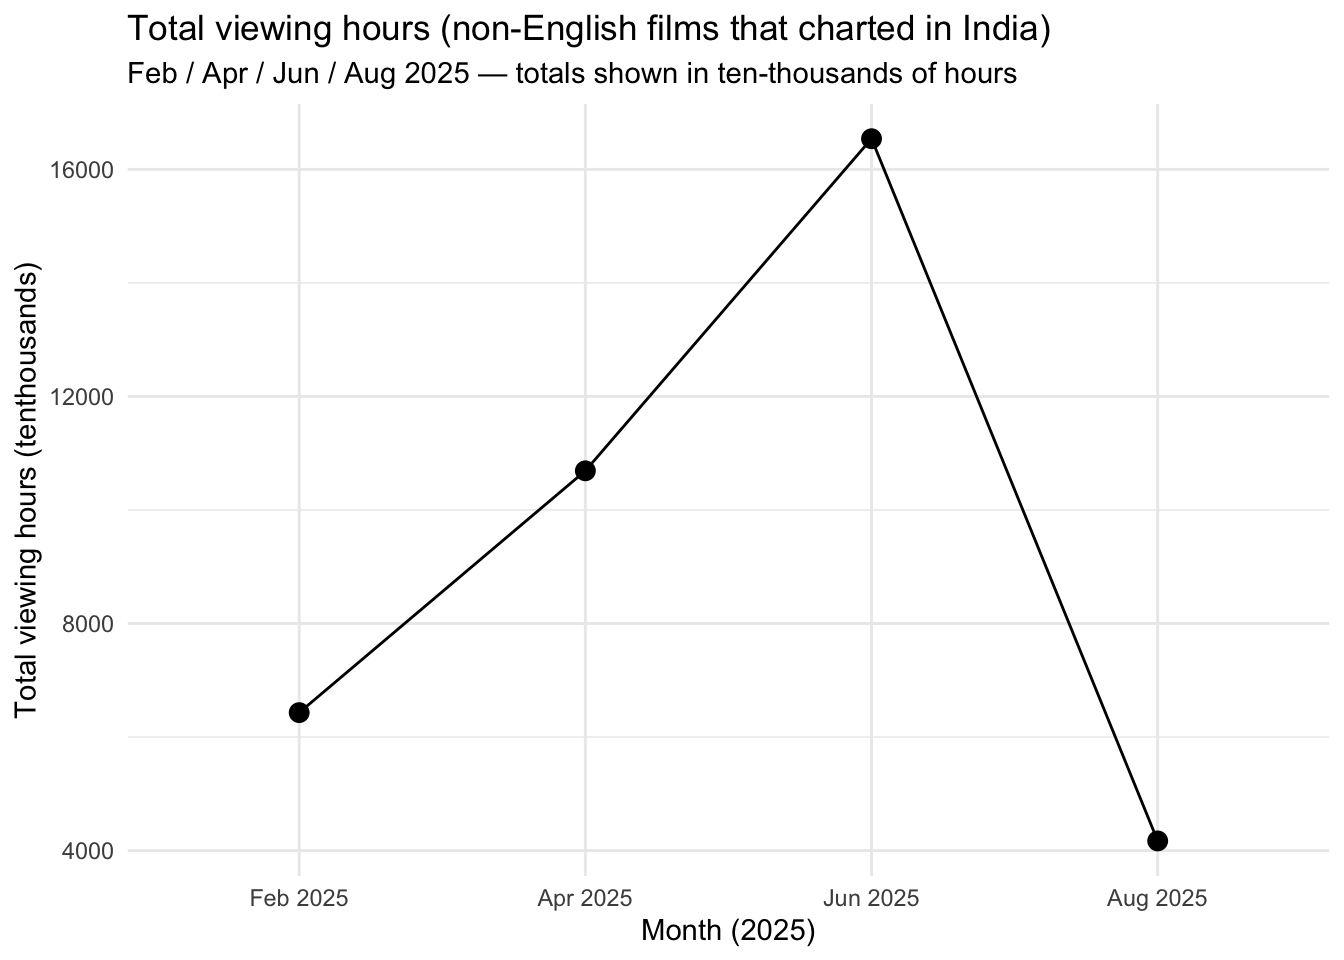
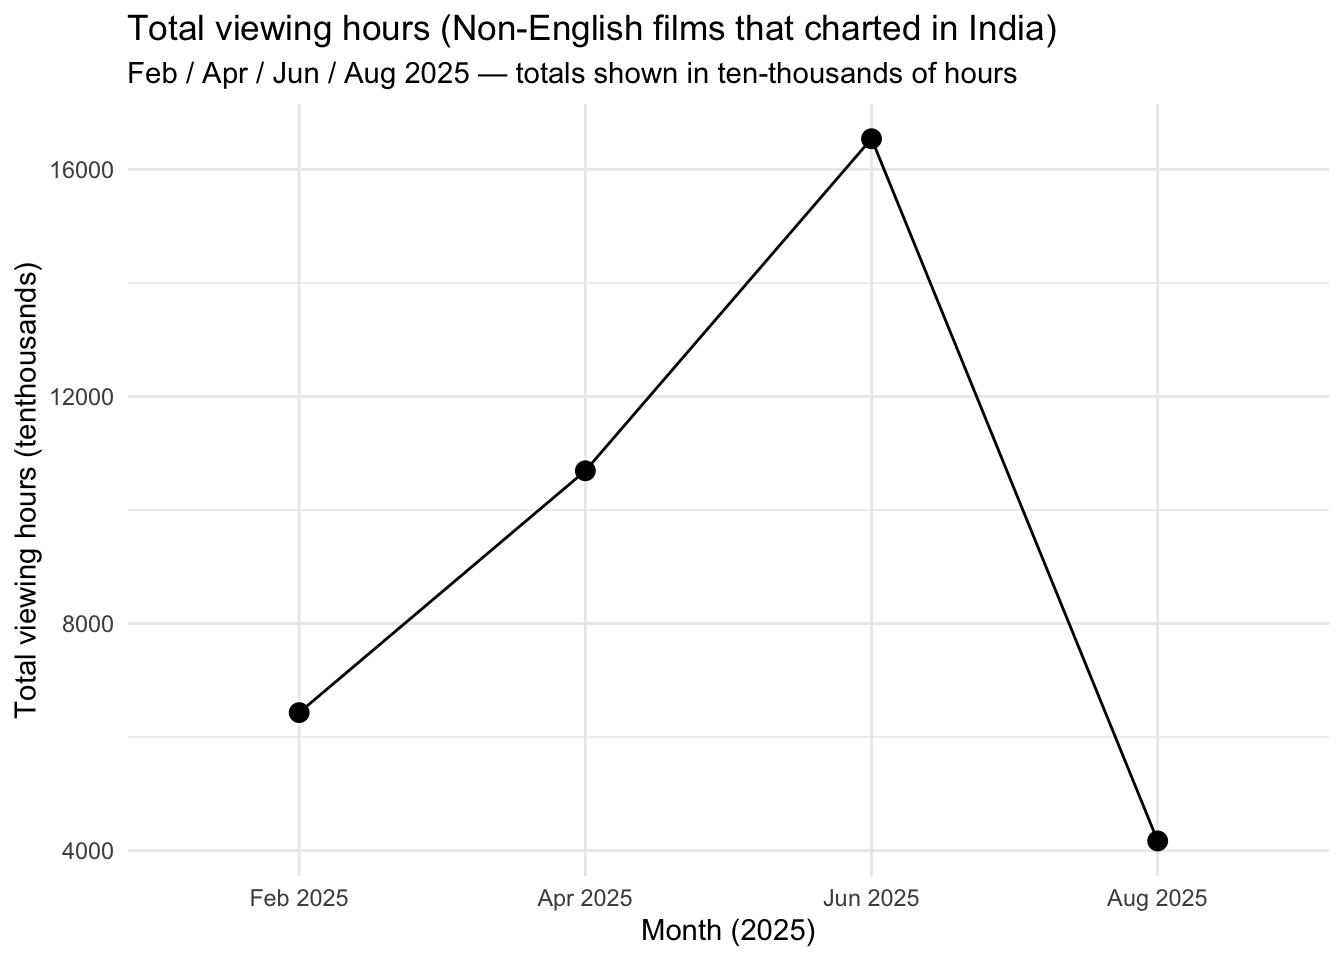
done

Changed region(s): [[0.3438, 0.0, 0.7812, 0.0625]]

diff --git a/docs/mp01.html b/docs/mp01.html
@@ -168,7 +168,7 @@ pre > code.sourceCode > span > a:first-child::before { text-decoration: underlin
   <li><a href="#column-cames-for-country-data" id="toc-column-cames-for-country-data" class="nav-link" data-scroll-target="#column-cames-for-country-data">Column Cames for Country Data</a></li>
   </ul></li>
   <li><a href="#exploratory-data-anlalysis" id="toc-exploratory-data-anlalysis" class="nav-link" data-scroll-target="#exploratory-data-anlalysis"><strong>Exploratory Data Anlalysis</strong></a></li>
-  <li><a href="#stranger-things-press-release" id="toc-stranger-things-press-release" class="nav-link" data-scroll-target="#stranger-things-press-release"><strong>Stranger Things Press Release</strong></a>
+  <li><a href="#press-release-1-stranger-things-finale" id="toc-press-release-1-stranger-things-finale" class="nav-link" data-scroll-target="#press-release-1-stranger-things-finale"><strong>Press Release 1: Stranger Things Finale</strong></a>
   <ul class="collapse">
   <li><a href="#stranger-things-season-5-set-to-shock-the-world-a-netflix-phenomenon-like-no-other" id="toc-stranger-things-season-5-set-to-shock-the-world-a-netflix-phenomenon-like-no-other" class="nav-link" data-scroll-target="#stranger-things-season-5-set-to-shock-the-world-a-netflix-phenomenon-like-no-other">Stranger Things Season 5 Set to Shock the World: A Netflix Phenomenon Like No Other!</a></li>
   </ul></li>
@@ -319,8 +319,8 @@ pre > code.sourceCode > span > a:first-child::before { text-decoration: underlin
 <span id="cb4-8"><a href="#cb4-8" aria-hidden="true" tabindex="-1"></a>    <span class="fu">formatRound</span>(<span class="fu">c</span>(<span class="st">'Weekly Hours Viewed'</span>, <span class="st">'Weekly Views'</span>))</span></code></pre></div><button title="Copy to Clipboard" class="code-copy-button"><i class="bi"></i></button></div>
 </details>
 <div class="cell-output-display">
-<div class="datatables html-widget html-fill-item" id="htmlwidget-638bcb184b861b6d3ef3" style="width:100%;height:auto;"></div>
-<script type="application/json" data-for="htmlwidget-638bcb184b861b6d3ef3">{"x":{"filter":"none","vertical":false,"data":[["1","2","3","4","5","6","7","8","9","10","11","12","13","14","15","16","17","18","19","20"],["2025-09-14","2025-09-14","2025-09-14","2025-09-14","2025-09-14","2025-09-14","2025-09-14","2025-09-14","2025-09-14","2025-09-14","2025-09-14","2025-09-14","2025-09-14","2025-09-14","2025-09-14","2025-09-14","2025-09-14","2025-09-14","2025-09-14","2025-09-14"],["Films (English)","Films (English)","Films (English)","Films (English)","Films (English)","Films (English)","Films (English)","Films (English)","Films (English)","Films (English)","Films (Non-English)","Films (Non-English)","Films (Non-English)","Films (Non-English)","Films (Non-English)","Films (Non-English)","Films (Non-English)","Films (Non-English)","Films (Non-English)","Films (Non-English)"],[1,2,3,4,5,6,7,8,9,10,1,2,3,4,5,6,7,8,9,10],["KPop Demon Hunters","The Wrong Paris","Unknown Number: The High School Catfish","aka Charlie Sheen","The Thursday Murder Club","Shrek","The Negotiator","Along Came a Spider","Shrek 2","Paw Patrol: The Movie","Saiyaara","Fall for Me","Inspector Zende","Love Untangled","Yadang: The Snitch","Kontrabida Academy","Abandoned Man","Brick","Kingdom","K.O."],[37700000,22900000,18500000,29500000,14100000,4400000,6500000,4400000,3900000,3300000,9300000,6500000,6200000,6400000,5100000,2800000,2100000,2200000,2500000,1400000],[22600000,12800000,11700000,9700000,7100000,2900000,2800000,2500000,2500000,2300000,3700000,3700000,3300000,3200000,2500000,1500000,1400000,1300000,1000000,1000000],[13,1,3,1,3,14,1,1,7,15,1,4,2,3,1,1,4,9,3,11],[100,107,95,182,120,90,140,104,93,86,150,105,112,121,123,109,92,101,152,87]],"container":"<table class=\"display\">\n  <thead>\n    <tr>\n      <th> <\/th>\n      <th>Week<\/th>\n      <th>Category<\/th>\n      <th>Weekly Rank<\/th>\n      <th>Show Title<\/th>\n      <th>Weekly Hours Viewed<\/th>\n      <th>Weekly Views<\/th>\n      <th>Cumulative Weeks In Top 10<\/th>\n      <th>Runtime (Minutes)<\/th>\n    <\/tr>\n  <\/thead>\n<\/table>","options":{"searching":false,"info":false,"columnDefs":[{"targets":5,"render":"function(data, type, row, meta) {\n    return type !== 'display' ? data : DTWidget.formatRound(data, 2, 3, \",\", \".\", null);\n  }"},{"targets":6,"render":"function(data, type, row, meta) {\n    return type !== 'display' ? data : DTWidget.formatRound(data, 2, 3, \",\", \".\", null);\n  }"},{"className":"dt-right","targets":[3,5,6,7,8]},{"orderable":false,"targets":0},{"name":" ","targets":0},{"name":"Week","targets":1},{"name":"Category","targets":2},{"name":"Weekly Rank","targets":3},{"name":"Show Title","targets":4},{"name":"Weekly Hours Viewed","targets":5},{"name":"Weekly Views","targets":6},{"name":"Cumulative Weeks In Top 10","targets":7},{"name":"Runtime (Minutes)","targets":8}],"order":[],"autoWidth":false,"orderClasses":false}},"evals":["options.columnDefs.0.render","options.columnDefs.1.render"],"jsHooks":[]}</script>
+<div class="datatables html-widget html-fill-item" id="htmlwidget-a9e9c4f07c4ff9140ebd" style="width:100%;height:auto;"></div>
+<script type="application/json" data-for="htmlwidget-a9e9c4f07c4ff9140ebd">{"x":{"filter":"none","vertical":false,"data":[["1","2","3","4","5","6","7","8","9","10","11","12","13","14","15","16","17","18","19","20"],["2025-09-14","2025-09-14","2025-09-14","2025-09-14","2025-09-14","2025-09-14","2025-09-14","2025-09-14","2025-09-14","2025-09-14","2025-09-14","2025-09-14","2025-09-14","2025-09-14","2025-09-14","2025-09-14","2025-09-14","2025-09-14","2025-09-14","2025-09-14"],["Films (English)","Films (English)","Films (English)","Films (English)","Films (English)","Films (English)","Films (English)","Films (English)","Films (English)","Films (English)","Films (Non-English)","Films (Non-English)","Films (Non-English)","Films (Non-English)","Films (Non-English)","Films (Non-English)","Films (Non-English)","Films (Non-English)","Films (Non-English)","Films (Non-English)"],[1,2,3,4,5,6,7,8,9,10,1,2,3,4,5,6,7,8,9,10],["KPop Demon Hunters","The Wrong Paris","Unknown Number: The High School Catfish","aka Charlie Sheen","The Thursday Murder Club","Shrek","The Negotiator","Along Came a Spider","Shrek 2","Paw Patrol: The Movie","Saiyaara","Fall for Me","Inspector Zende","Love Untangled","Yadang: The Snitch","Kontrabida Academy","Abandoned Man","Brick","Kingdom","K.O."],[37700000,22900000,18500000,29500000,14100000,4400000,6500000,4400000,3900000,3300000,9300000,6500000,6200000,6400000,5100000,2800000,2100000,2200000,2500000,1400000],[22600000,12800000,11700000,9700000,7100000,2900000,2800000,2500000,2500000,2300000,3700000,3700000,3300000,3200000,2500000,1500000,1400000,1300000,1000000,1000000],[13,1,3,1,3,14,1,1,7,15,1,4,2,3,1,1,4,9,3,11],[100,107,95,182,120,90,140,104,93,86,150,105,112,121,123,109,92,101,152,87]],"container":"<table class=\"display\">\n  <thead>\n    <tr>\n      <th> <\/th>\n      <th>Week<\/th>\n      <th>Category<\/th>\n      <th>Weekly Rank<\/th>\n      <th>Show Title<\/th>\n      <th>Weekly Hours Viewed<\/th>\n      <th>Weekly Views<\/th>\n      <th>Cumulative Weeks In Top 10<\/th>\n      <th>Runtime (Minutes)<\/th>\n    <\/tr>\n  <\/thead>\n<\/table>","options":{"searching":false,"info":false,"columnDefs":[{"targets":5,"render":"function(data, type, row, meta) {\n    return type !== 'display' ? data : DTWidget.formatRound(data, 2, 3, \",\", \".\", null);\n  }"},{"targets":6,"render":"function(data, type, row, meta) {\n    return type !== 'display' ? data : DTWidget.formatRound(data, 2, 3, \",\", \".\", null);\n  }"},{"className":"dt-right","targets":[3,5,6,7,8]},{"orderable":false,"targets":0},{"name":" ","targets":0},{"name":"Week","targets":1},{"name":"Category","targets":2},{"name":"Weekly Rank","targets":3},{"name":"Show Title","targets":4},{"name":"Weekly Hours Viewed","targets":5},{"name":"Weekly Views","targets":6},{"name":"Cumulative Weeks In Top 10","targets":7},{"name":"Runtime (Minutes)","targets":8}],"order":[],"autoWidth":false,"orderClasses":false}},"evals":["options.columnDefs.0.render","options.columnDefs.1.render"],"jsHooks":[]}</script>
 </div>
 </div>
 <section id="column-names-for-global-data" class="level2">
@@ -668,8 +668,8 @@ pre > code.sourceCode > span > a:first-child::before { text-decoration: underlin
 </div>
 </div>
 </section>
-<section id="stranger-things-press-release" class="level1">
-<h1><strong>Stranger Things Press Release</strong></h1>
+<section id="press-release-1-stranger-things-finale" class="level1">
+<h1><strong>Press Release 1: Stranger Things Finale</strong></h1>
 <div class="cell" data-layout-align="center">
 <details class="code-fold">
 <summary>Code</summary>
@@ -941,7 +941,7 @@ pre > code.sourceCode > span > a:first-child::before { text-decoration: underlin
 <span id="cb49-4"><a href="#cb49-4" aria-hidden="true" tabindex="-1"></a>  <span class="fu">geom_line</span>() <span class="sc">+</span></span>
 <span id="cb49-5"><a href="#cb49-5" aria-hidden="true" tabindex="-1"></a>  <span class="fu">geom_point</span>(<span class="at">size =</span> <span class="dv">3</span>) <span class="sc">+</span></span>
 <span id="cb49-6"><a href="#cb49-6" aria-hidden="true" tabindex="-1"></a>  <span class="fu">labs</span>(</span>
-<span id="cb49-7"><a href="#cb49-7" aria-hidden="true" tabindex="-1"></a>    <span class="at">title =</span> <span class="st">"Total viewing hours (non-English films that charted in India)"</span>,</span>
+<span id="cb49-7"><a href="#cb49-7" aria-hidden="true" tabindex="-1"></a>    <span class="at">title =</span> <span class="st">"Total viewing hours (Non-English films that charted in India)"</span>,</span>
 <span id="cb49-8"><a href="#cb49-8" aria-hidden="true" tabindex="-1"></a>    <span class="at">subtitle =</span> <span class="st">"Feb / Apr / Jun / Aug 2025 — totals shown in ten-thousands of hours"</span>,</span>
 <span id="cb49-9"><a href="#cb49-9" aria-hidden="true" tabindex="-1"></a>    <span class="at">x =</span> <span class="st">"Month (2025)"</span>,</span>
 <span id="cb49-10"><a href="#cb49-10" aria-hidden="true" tabindex="-1"></a>    <span class="at">y =</span> <span class="st">"Total viewing hours (tenthousands)"</span></span>
